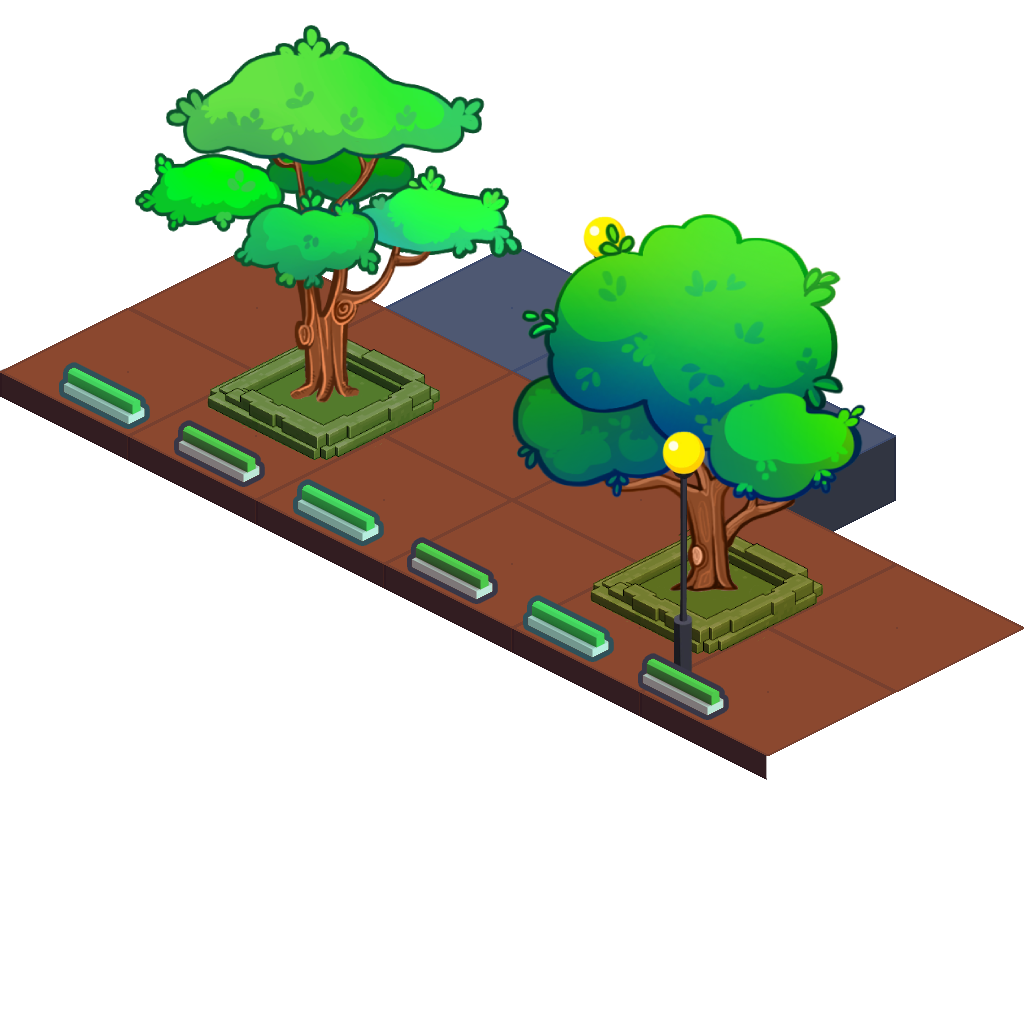
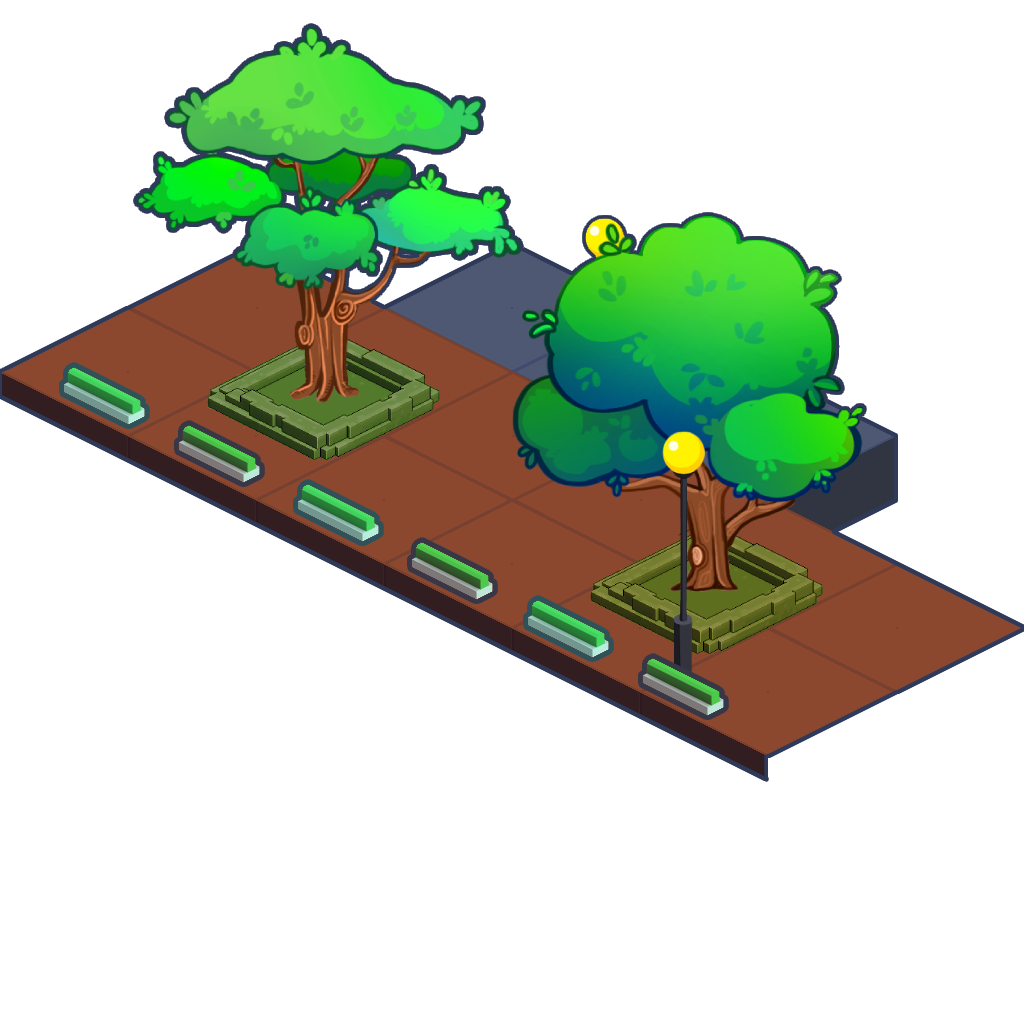
removed unwanted assets, bordered the road side walk assets

diff --git a/src/assets.ts b/src/assets.ts
@@ -114,9 +114,9 @@ export const manifest: ResolverManifest = {
 				"road_side_walk_top_1": "./images/road_side_walk_top_1.png",
 				"road_side_walk_bottom_1": "./images/road_side_walk_bottom_1.png",
 
-				"tree_1": "./images/tree_1.png",
-				"tree_2": "./images/tree_2.png",
-				"tree_3": "./images/tree_3.png",
+				//"tree_1": "./images/tree_1.png",
+				//"tree_2": "./images/tree_2.png",
+				//"tree_3": "./images/tree_3.png",
 
 				"ufo_boss_1_hit": "./images/ufo_boss_1_hit.png",
 				"ufo_boss_1_idle": "./images/ufo_boss_1_idle.png",
